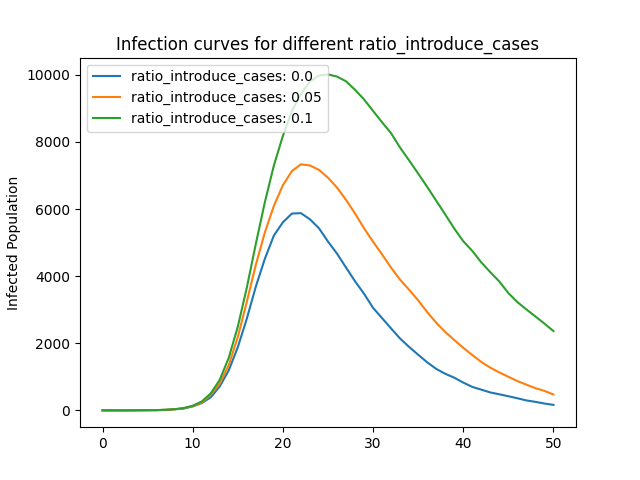
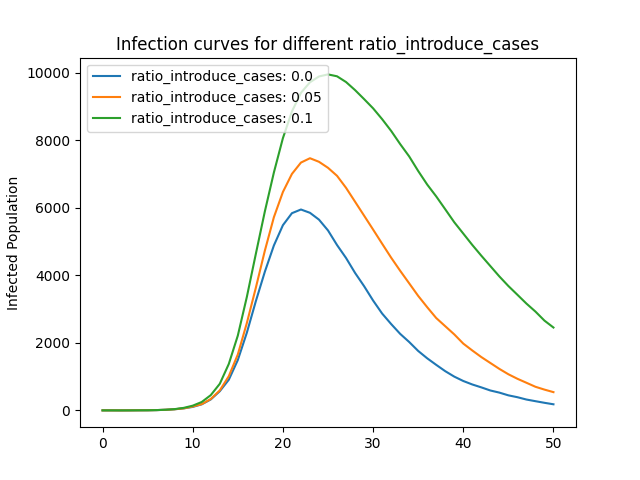
docstring issues and improve removing individuals

diff --git a/pyEpiabm/pyEpiabm/sweep/travel_sweep.py b/pyEpiabm/pyEpiabm/sweep/travel_sweep.py
@@ -14,7 +14,7 @@ from .abstract_sweep import AbstractSweep
 
 
 class TravelSweep(AbstractSweep):
-    """Class to manage the introduction and removing of
+    """Class to manage the introduction and removal of
     individuals. The number of individuals introduced
     depends on the number of total infectious cases in the
     population. All individuals are infectious when entering
@@ -26,7 +26,7 @@ class TravelSweep(AbstractSweep):
     """
 
     def __init__(self):
-        """Call in variables from the parameters file
+        """Call in variables from the parameters file.
 
         """
         self.travel_params = Parameters.instance().travel_params
@@ -38,8 +38,7 @@ class TravelSweep(AbstractSweep):
         self.travellers = []
 
     def __call__(self, time: float):
-        """
-        Based on number of infected cases in population, infected
+        """Based on number of infected cases in population, infected
         individuals are introduced to the population for a certain
         period. They are distributed over the microcells based on
         population density. They are not assigned permanently to
@@ -75,14 +74,13 @@ class TravelSweep(AbstractSweep):
             self.initial_cell.persons = []
             self.initial_microcell.persons = []
 
-        # Remove individuals if duration of stay passed
+        # Remove individuals if the duration of their stay has passed
         self.remove_leaving_individuals(time)
 
     def create_introduced_individuals(self, time,
                                       number_individuals_introduced):
-        """
-        Create individuals and assign them an age and infectious status. This
-        is based on age proportions if age is used in the model.
+        """Create individuals and assign them an age and infectious status.
+        This is based on age proportions if age is used in the model.
         Individuals are assigned an age between 15-80 years and are all
         infected (mild or asymptomatic).
 
@@ -149,8 +147,7 @@ class TravelSweep(AbstractSweep):
             self.travellers.append(person)
 
     def assign_microcell_household(self, number_individuals_introduced):
-        """
-        Assign individuals introduced to microcells based on population
+        """Assign individuals introduced to microcells based on population
         density of micorcells in the general population. Takes a number of
         microcells equal to the number_individuals_introduced (or max number
         of microcells) and assigns individuals randomly to one of these
@@ -204,8 +201,7 @@ class TravelSweep(AbstractSweep):
                 selected_microcell.add_household([person])
 
     def check_leaving_individuals(self, time, person):
-        """
-        Check if individuals travel_end_time is reached. If interventions
+        """Check if individuals travel_end_time is reached. If interventions
         are active and travelling individual is in isolation and/or quarantine
         individuals leave after their travel_end_time is reached and they are
         out of isolation and/or quarantine.
@@ -240,8 +236,7 @@ class TravelSweep(AbstractSweep):
         return False
 
     def remove_leaving_individuals(self, time):
-        """
-        Remove individuals after their travel_end_time is reached
+        """Remove individuals after their travel_end_time is reached
         from cell, microcell and household.
 
         Parameters

diff --git a/pyEpiabm/pyEpiabm/tests/test_unit/test_sweep/test_travel_sweep.py b/pyEpiabm/pyEpiabm/tests/test_unit/test_sweep/test_travel_sweep.py
@@ -13,8 +13,7 @@ class TestTravelSweep(TestPyEpiabm):
     """
 
     def setUp(self) -> None:
-        """
-        Construct a population with 20 individuals in 1 cells,
+        """Construct a population with 20 individuals in 1 cells,
         2 microcells and 4 households with 2 infectors. Note,
         ratio_introduce_cases can be used to introduce a certain
         number of individuals.
@@ -54,14 +53,14 @@ class TestTravelSweep(TestPyEpiabm):
                          pe.property.InfectionStatus.InfectMild)
 
     def test__call__(self):
-        """
-        Introduce 3 infected individuals. Of them, 2 are introduced due to
+        """Introduce 3 infected individuals. Of them, 2 are introduced due to
         ratio_introduce_cases and 1 due to constant_introduce_cases. All
         three individuals stay until a day between day 3 and 15. Introduce 0
         individuals at day 2 and remove the 3 individuals after their
         travel_end_time has passed. Set ratio_introduced_cases to zero after
         introducing these 2 individuals to prevent introducing more
-        individuals.
+        individuals and check if the population size is as expected at the
+        considered time points.
 
         """
         self.travelsweep.travel_params['ratio_introduce_cases'] = 1.0
@@ -77,11 +76,10 @@ class TestTravelSweep(TestPyEpiabm):
         self.assertEqual(len(self._population.cells[0].persons), 20)
 
     def test_create_introduced_individuals(self):
-        """
-        Create Person objects for the two infected individuals introduced with
-        and without using age in the model. When using age, their age_group
-        should be 5 and they should be asymptomatic. When age is not used,
-        their age should be None and they should still be asymptomatic.
+        """Create Person objects for the two infected individuals introduced
+        with and without using age in the model. When using age, their
+        age_group should be 5 and they should be asymptomatic. When age is not
+        used, their age should be None and they should still be asymptomatic.
 
         """
         # Using age
@@ -118,8 +116,7 @@ class TestTravelSweep(TestPyEpiabm):
                              InfectionStatus.InfectASympt)
 
     def test_assign_microcell_household(self):
-        """
-        Introduce one individual and assign to the microcell with the
+        """Introduce one individual and assign to the microcell with the
         highest population density. Individual starts their own household.
 
         """
@@ -133,8 +130,7 @@ class TestTravelSweep(TestPyEpiabm):
         self.assertEqual(len(self.microcell1.households), 3)
 
     def test_remove_leaving_individual(self):
-        """
-        Remove individuals introduced after their travel_end_time is
+        """Remove individuals introduced after their travel_end_time is
         passed and check if they are not in isolation and/or quarantine.
         If so, keep them in the population until isolation_start_time and/or
         quaratine_start_time has also passed.

diff --git a/pyEpiabm/pyEpiabm/core/_compartment_counter.py b/pyEpiabm/pyEpiabm/core/_compartment_counter.py
@@ -72,7 +72,7 @@ class _CompartmentCounter:
 
     def _increment_compartment(self, n_persons: int,
                                infection_status: InfectionStatus,
-                               age_group=0, add_or_remove=True) -> None:
+                               age_group=0) -> None:
         """Function to add a block of people with the same infection status
         and age group (if age is used) to a compartment.
 
@@ -80,22 +80,18 @@ class _CompartmentCounter:
         Parameters
         ----------
         n_person : int
-            Number of people being added to cell or microcell
+            Number of people being added to cell or microcell.
+            If negative people will be removed.
         infection_status : InfectionStatus
             Status of people being added
         age_group : Age group index
             Person's associated age group
-        add_or_remove : bool
-            True means adding, False will subtract
 
         """
         # Initialisation of the age_counter array
         age_counter = np.zeros(self.nb_age_groups, dtype=int)
         age_counter[age_group] = n_persons
-        if add_or_remove:
-            self._compartments[infection_status] += age_counter
-        else:
-            self._compartments[infection_status] -= age_counter
+        self._compartments[infection_status] += age_counter
 
     def retrieve(self) -> typing.Dict[InfectionStatus, np.array]:
         """Get Compartment Counts.

diff --git a/pyEpiabm/pyEpiabm/core/person.py b/pyEpiabm/pyEpiabm/core/person.py
@@ -201,14 +201,15 @@ class Person:
 
     def remove_person(self):
         """ Method to remove Person object from population.
+        Used to remove travellers from the population.
 
         """
         self.microcell.cell.compartment_counter.\
-            _increment_compartment(1, self.infection_status,
-                                   self.age_group, add_or_remove=False)
+            _increment_compartment(-1, self.infection_status,
+                                   self.age_group)
         self.microcell.compartment_counter.\
-            _increment_compartment(1, self.infection_status,
-                                   self.age_group, add_or_remove=False)
+            _increment_compartment(-1, self.infection_status,
+                                   self.age_group)
         self.microcell.cell.persons.remove(self)
         self.microcell.persons.remove(self)
         self.household.persons.remove(self)

diff --git a/pyEpiabm/pyEpiabm/sweep/intervention_sweep.py b/pyEpiabm/pyEpiabm/sweep/intervention_sweep.py
@@ -48,8 +48,7 @@ class InterventionSweep(AbstractSweep):
                 population=self._population, **params))] = False
 
     def __call__(self, time):
-        """
-        Perform interventions that should take place.
+        """Perform interventions that should take place.
 
         Parameters
         ----------
